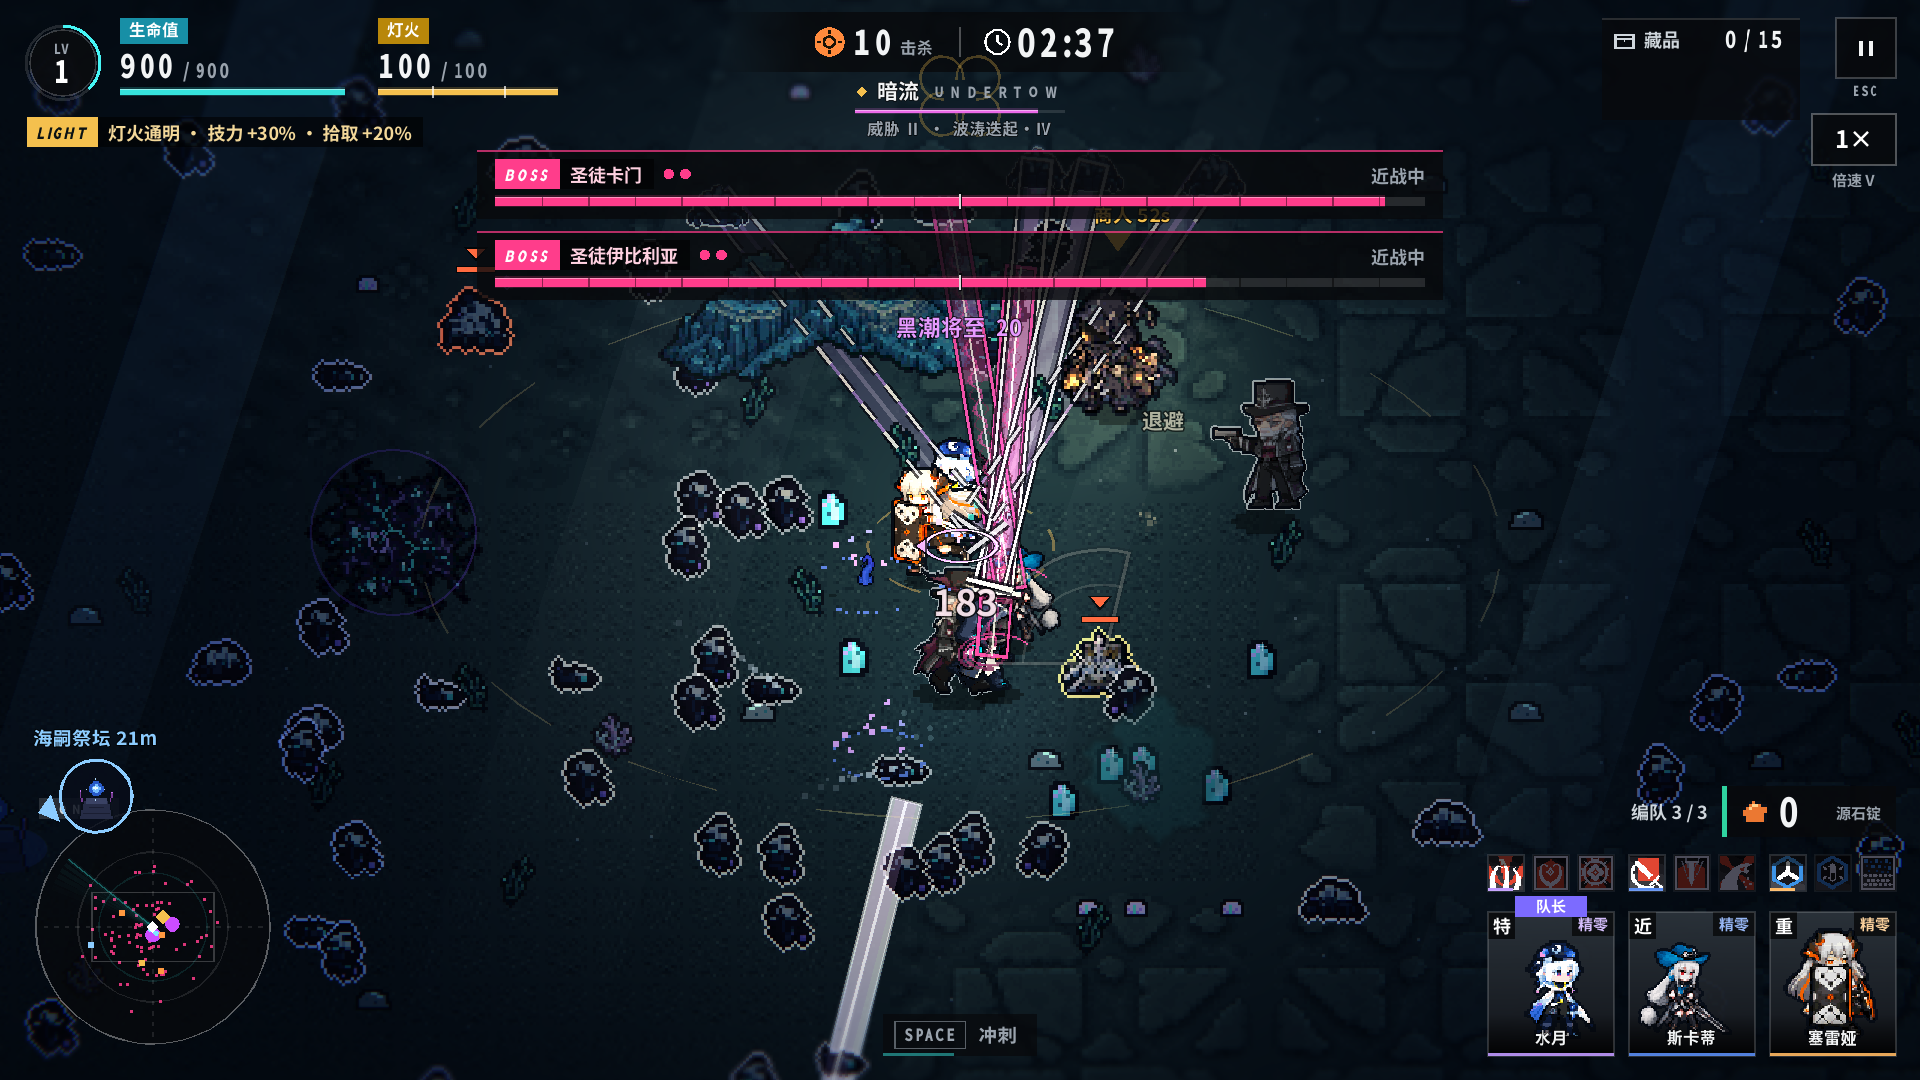
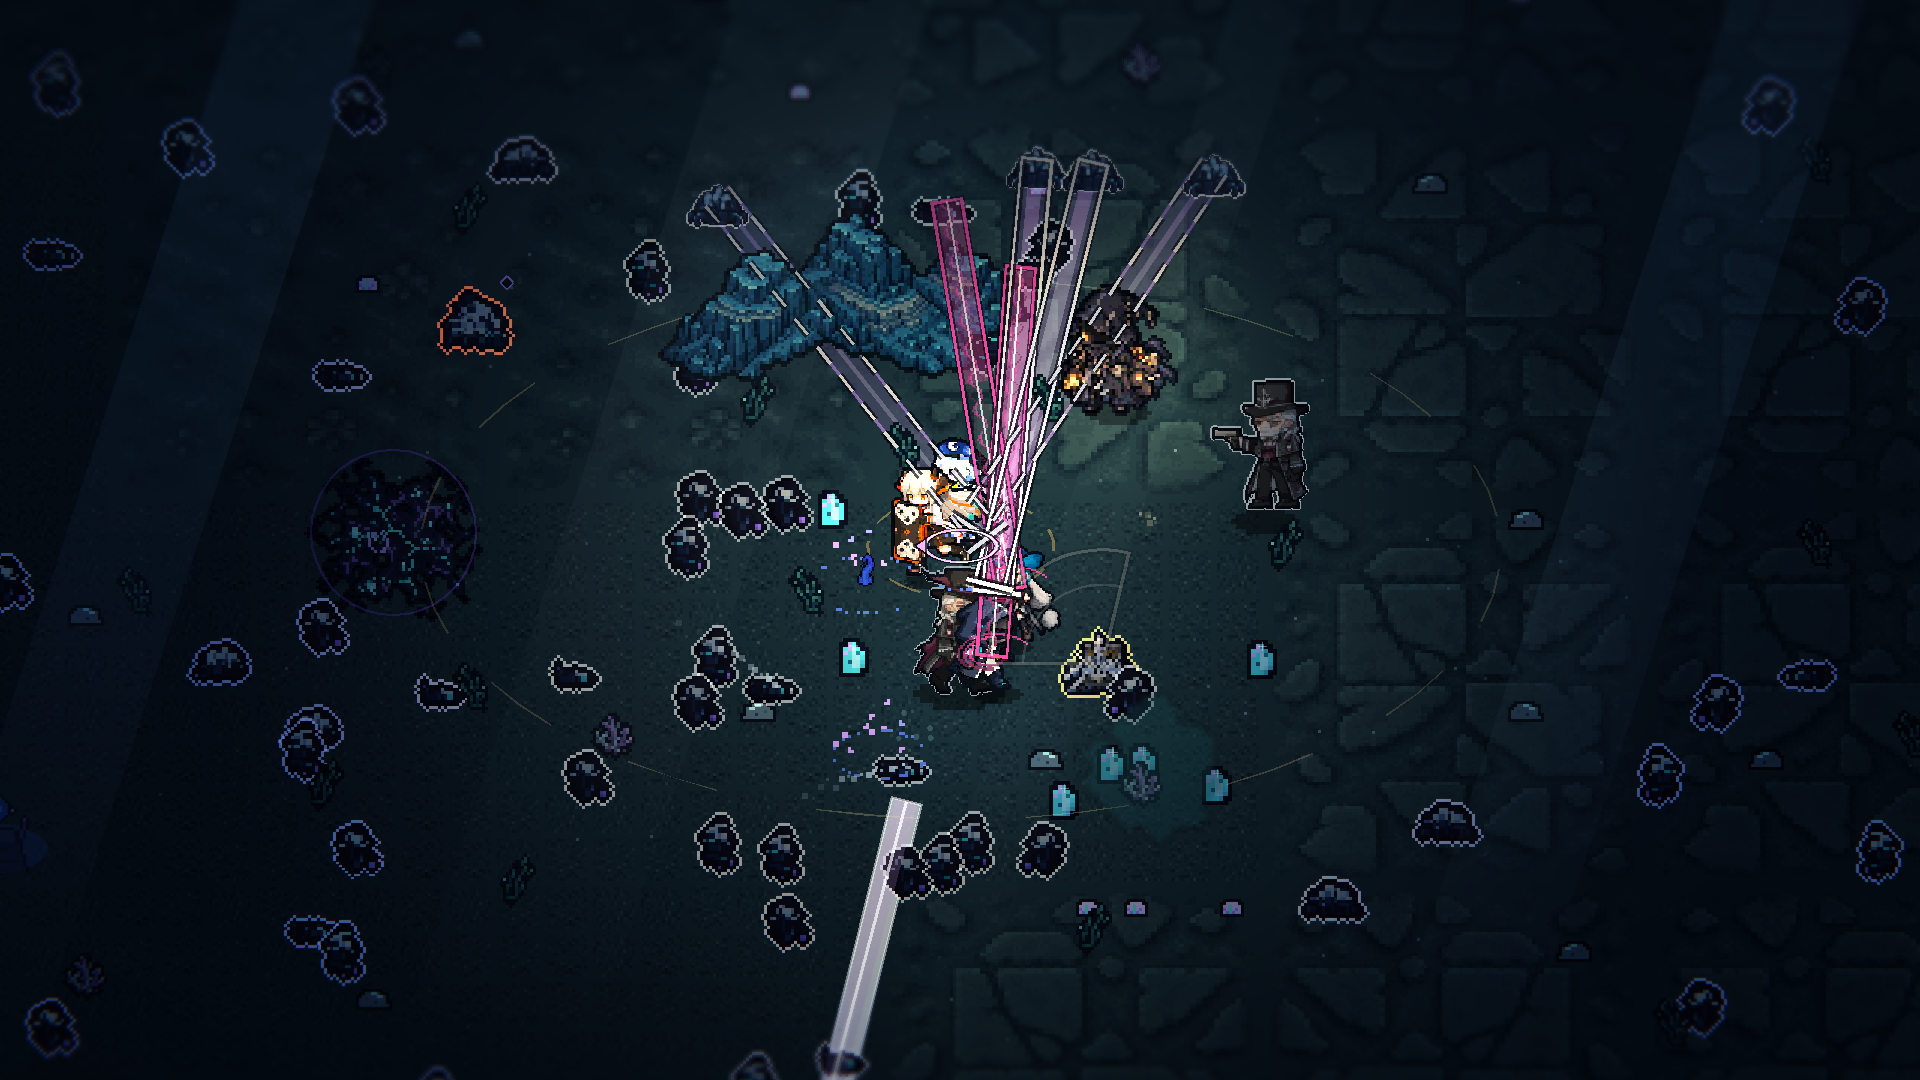
宣传图补拍：shot_07 双圣徒重拍（隐藏 HUD，去掉 Lv1 / 900 血穿帮）、新增 shot_15 骑士撞桩长枪脱手
- tools/promo_shots.gd：--promo_nohud 整局隐藏 HUD；--promo_stake_bait 骑士冲锋时在前方摆一根冰枪桩（协调人允许「摆桩」），撞桩 / 脱手 / 破绽由游戏自己结算
- captions.md 两行更新

diff --git a/art/promo/captions.md b/art/promo/captions.md
@@ -16,7 +16,7 @@ In-game screenshots (1920×1080, HUD on), captured automatically with `tools/pro
 
 | 文件 · File | 中文（≤ 12 字） | English | 场面 · Scene |
 |---|---|---|---|
-| shot_07_saints.png | 双圣徒同时登场 | Two saints take the field. | 圣徒卡门与伊比利亚（Boss 演练式同场，seed=1）· Saints Carmen and Iberia together |
+| shot_07_saints.png | 双圣徒同时登场 | Two saints take the field. | 圣徒卡门与伊比利亚同场（游戏自带的 --bosstest，HUD 隐藏）· Saints Carmen and Iberia together, HUD hidden |
 | shot_08_paranoia_hatch.png | 泡影破壳，深海觉醒 | Paranoia breaks free. | 10:39 偏执泡影二阶段落地破壳，脚下洋红地裂 · Paranoia's phase-2 hatch with the new ground crack |
 | shot_09_knight_charge.png | 最后的骑士，冰枪冲锋 | The Last Knight charges. | 10:23 骑士冲锋预警与冰枪 · the Knight's lance charge |
 | shot_10_beacon_glow.png | 灯标点亮，暖光护身 | A lit beacon warms the dark. | 9:49 点亮的灯塔照亮周围，水月大招中 · a lit beacon's warm light pool |
@@ -24,6 +24,7 @@ In-game screenshots (1920×1080, HUD on), captured automatically with `tools/pro
 | shot_12_relic.png | 三选一，拿走你的藏品 | Pick your relic. | 1:18 获得藏品三选一 · relic pick |
 | shot_13_altar.png | 祭坛抉择，改写命运 | Altar choices change your fate. | 2:33 海嗣祭坛事件抉择 · altar event choice |
 | shot_14_gallery.png | 图鉴收录每一位强敌 | Every foe, catalogued. | 图鉴 · Boss 页（偏执泡影）· the gallery's boss page |
+| shot_15_knight_lance.png | 撞上冰桩，长枪脱手 | Lance lost on the ice stake. | 10:16 骑士冲锋撞上冰枪桩、长枪脱手进入破绽（HUD 隐藏；冲锋前方摆了一根桩，撞桩与破绽由游戏自己结算）· the Knight hits an ice stake, drops its lance and opens a break window |
 
 主视觉变体：keyart_saints_1920x1080 / capsule_saints_616x353（圣徒卡门与伊比利亚，编队维什戴尔 / 逻各斯 / 水月 / 艾雅法拉 / 推进之王）；keyart_paranoia_b_1920x1080 / capsule_paranoia_b_616x353（泡影，编队乌尔比安 / 凯尔希 / 水月 / 艾丽妮 / 归溟幽灵鲨）。干员阵容：roster_1920x1080（13 名可选主控）。
 工具：`tools/promo_keyart.py --boss saints --squad a,b,c,d,e`、`tools/promo_roster.py`；截图 `tools/promo_shots.py` 新增类别 saint / hatch / stake / glow / mire / late / relic 与 `--promo_rt=起-止,…`（窗口外快进）。
